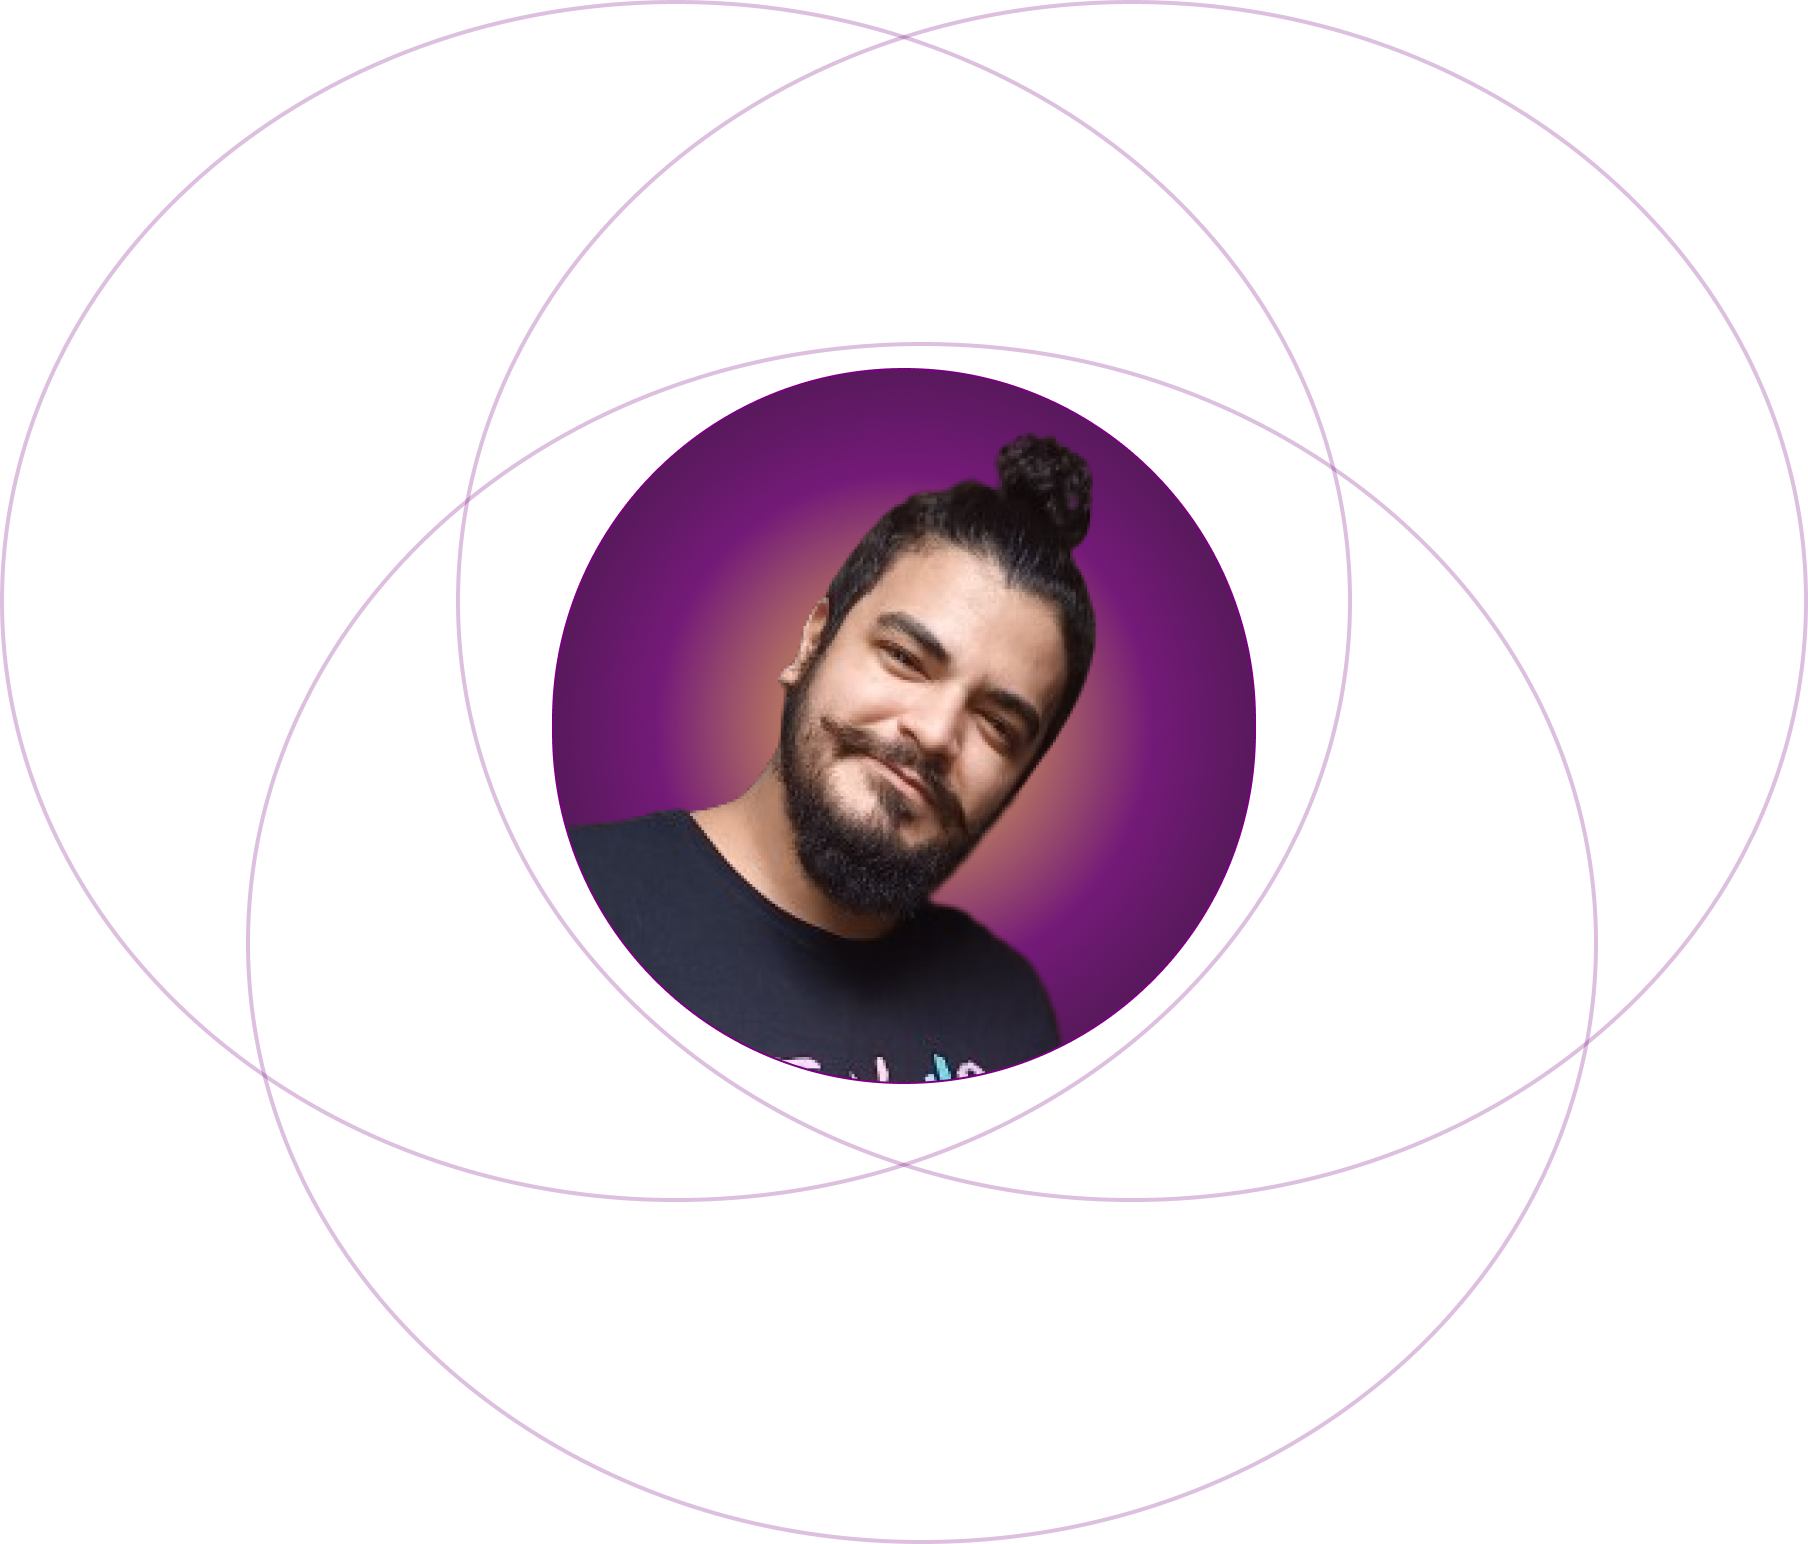
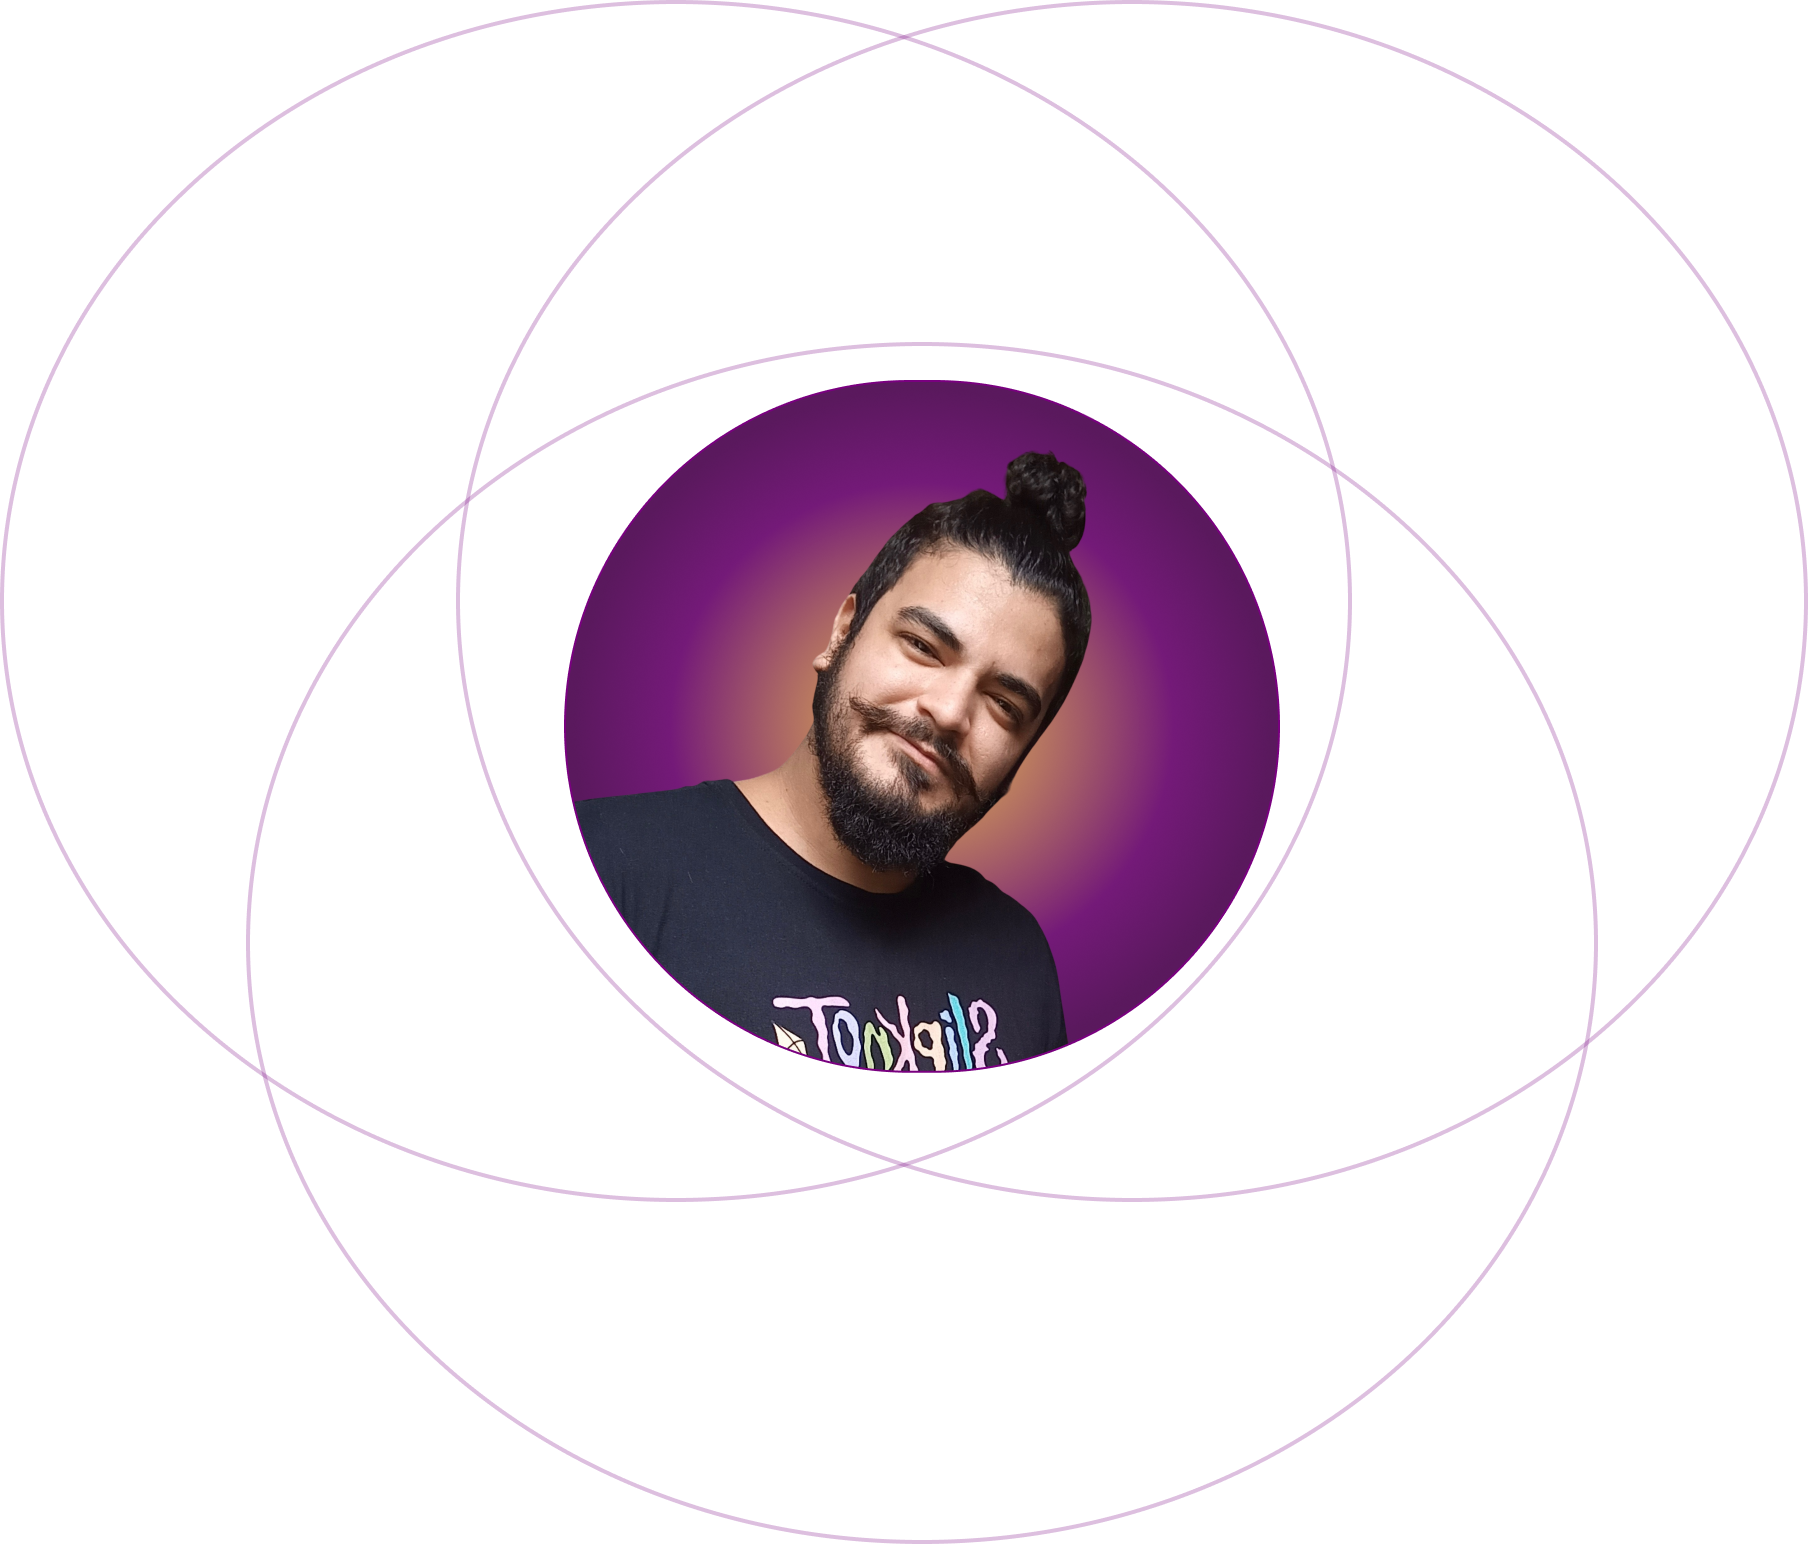
header com css responsivo

diff --git a/src/app/nav/nav.component.scss b/src/app/nav/nav.component.scss
@@ -1,11 +1,16 @@
 
-
-nav{
+.nav-banner {
+    position: relative;
     display: flex;
-    flex-direction: column;
-    align-items: center;
-    width: 100%;
-    
+    justify-content: center;
+
+    img {
+        position: absolute;
+        background-position: center center;
+        background-size: cover;
+        background-repeat: no-repeat;
+        overflow: hidden;
+    }
     .name {
         position: absolute;
         width: 100%;
@@ -16,7 +21,15 @@ nav{
         font-style: normal;
         font-weight: 400;
         font-size: 60px;
-        line-height: 89px;}
+        line-height: 89px;
+    }
+}
+
+nav{
+    display: flex;
+    justify-content: center;
+    
+    
     @media only screen and (max-width: 1200px) {
         .name {
             margin: 14px 0 0 40px;
@@ -32,7 +45,7 @@ nav{
 
 
     ul {
-        margin: 0;
+        margin: 7rem 0 0 0;
         width: 100%;
         max-width: 1200px;
         display: flex;
@@ -81,6 +94,7 @@ nav{
                 display: none;
             }
             li {
+                font-size: 15px;
                 width: 25%;
             }
         }
@@ -94,13 +108,4 @@ nav{
         }
     }
     
-    .nav-background {
-        img {
-            background-size: 100vw auto;
-            height: 100%;
-        }
-    }
-    .nav-container {
-        width: 1200px;
-    }
 }

diff --git a/src/app/nav/nav.component.html b/src/app/nav/nav.component.html
@@ -1,14 +1,13 @@
-<nav>
-    
-    <div class="nav-background">
-        <img src="assets/navBackground.jpg" alt="">
-    </div>
+<div class="nav-banner">
+    <img src="../../assets/navBackground.jpg" alt="">
     <h1 class="name">KEVIN DUARTE </h1>
+</div>
+<nav>
     <ul>
         <h1>FULLSTACK DEVELOPER</h1>
-    <li><a routerLink="">INÍCIO</a></li>
-    <li><a routerLink="/curriculo">CURRÍCULO</a></li>
-    <li><a routerLink="/projetos">PROJETOS</a></li>
-    <li><a >CONTATO</a></li>
+        <li><a routerLink="">INÍCIO</a></li>
+        <li><a routerLink="/curriculo">CURRÍCULO</a></li>
+        <li><a routerLink="/projetos">PROJETOS</a></li>
+        <li><a >CONTATO</a></li>
     </ul>
 </nav>

diff --git a/src/app/home/home.component.scss b/src/app/home/home.component.scss
@@ -11,6 +11,10 @@ div {
         
         img {
             position: absolute;
+            background-position: center center;
+            background-size: cover;
+            background-repeat: no-repeat;
+            overflow: hidden;
             height: 772px;
             z-index: -1;
             top: 5%;

diff --git a/src/index.html b/src/index.html
@@ -7,7 +7,7 @@
   <meta name="viewport" content="width=device-width, initial-scale=1">
   <link rel="icon" type="image/x-icon" href="favicon.ico">
 </head>
-<body style="margin: 0; overflow-x: hidden;">
+<body style="margin: 0;">
   <app-root></app-root>
 </body>
 </html>

diff --git a/src/app/footer/footer.component.html b/src/app/footer/footer.component.html
@@ -1,5 +1,5 @@
 <div class="footer-background">
-    <img src="assets/footerBackground.png" alt="">
+    <img src="../../assets/footerBackground.png" alt="">
 
     <div class="links">
         <a href="mailto: kevinribe@gmail.com"> 
